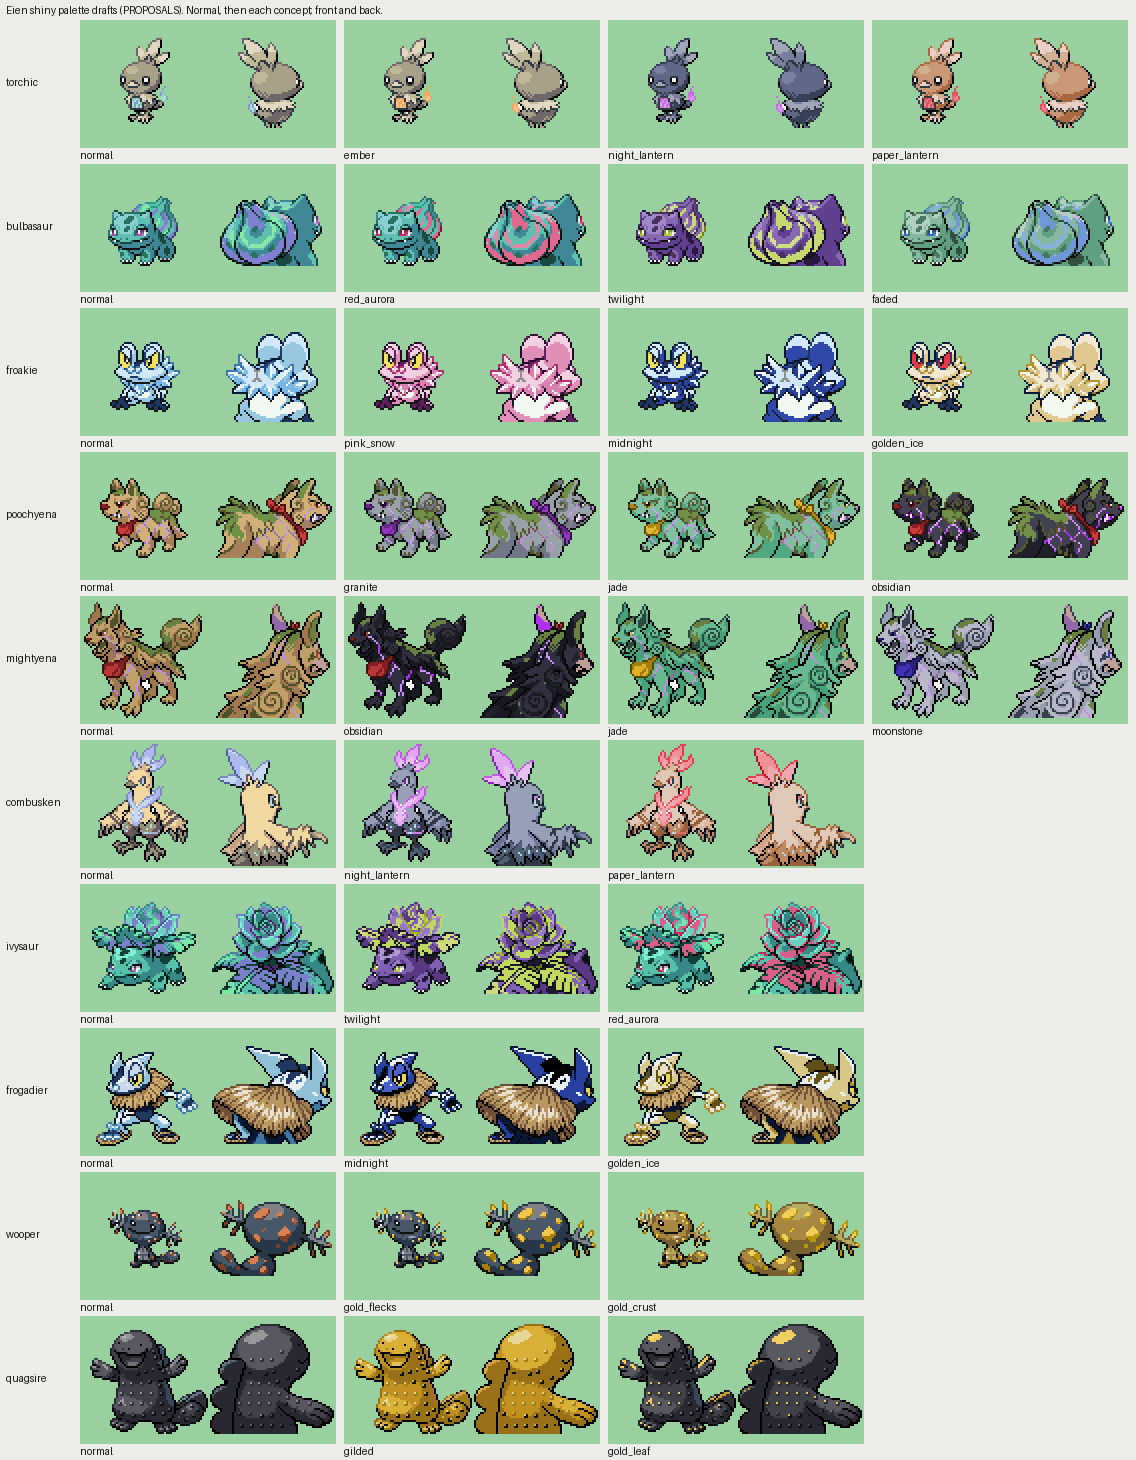
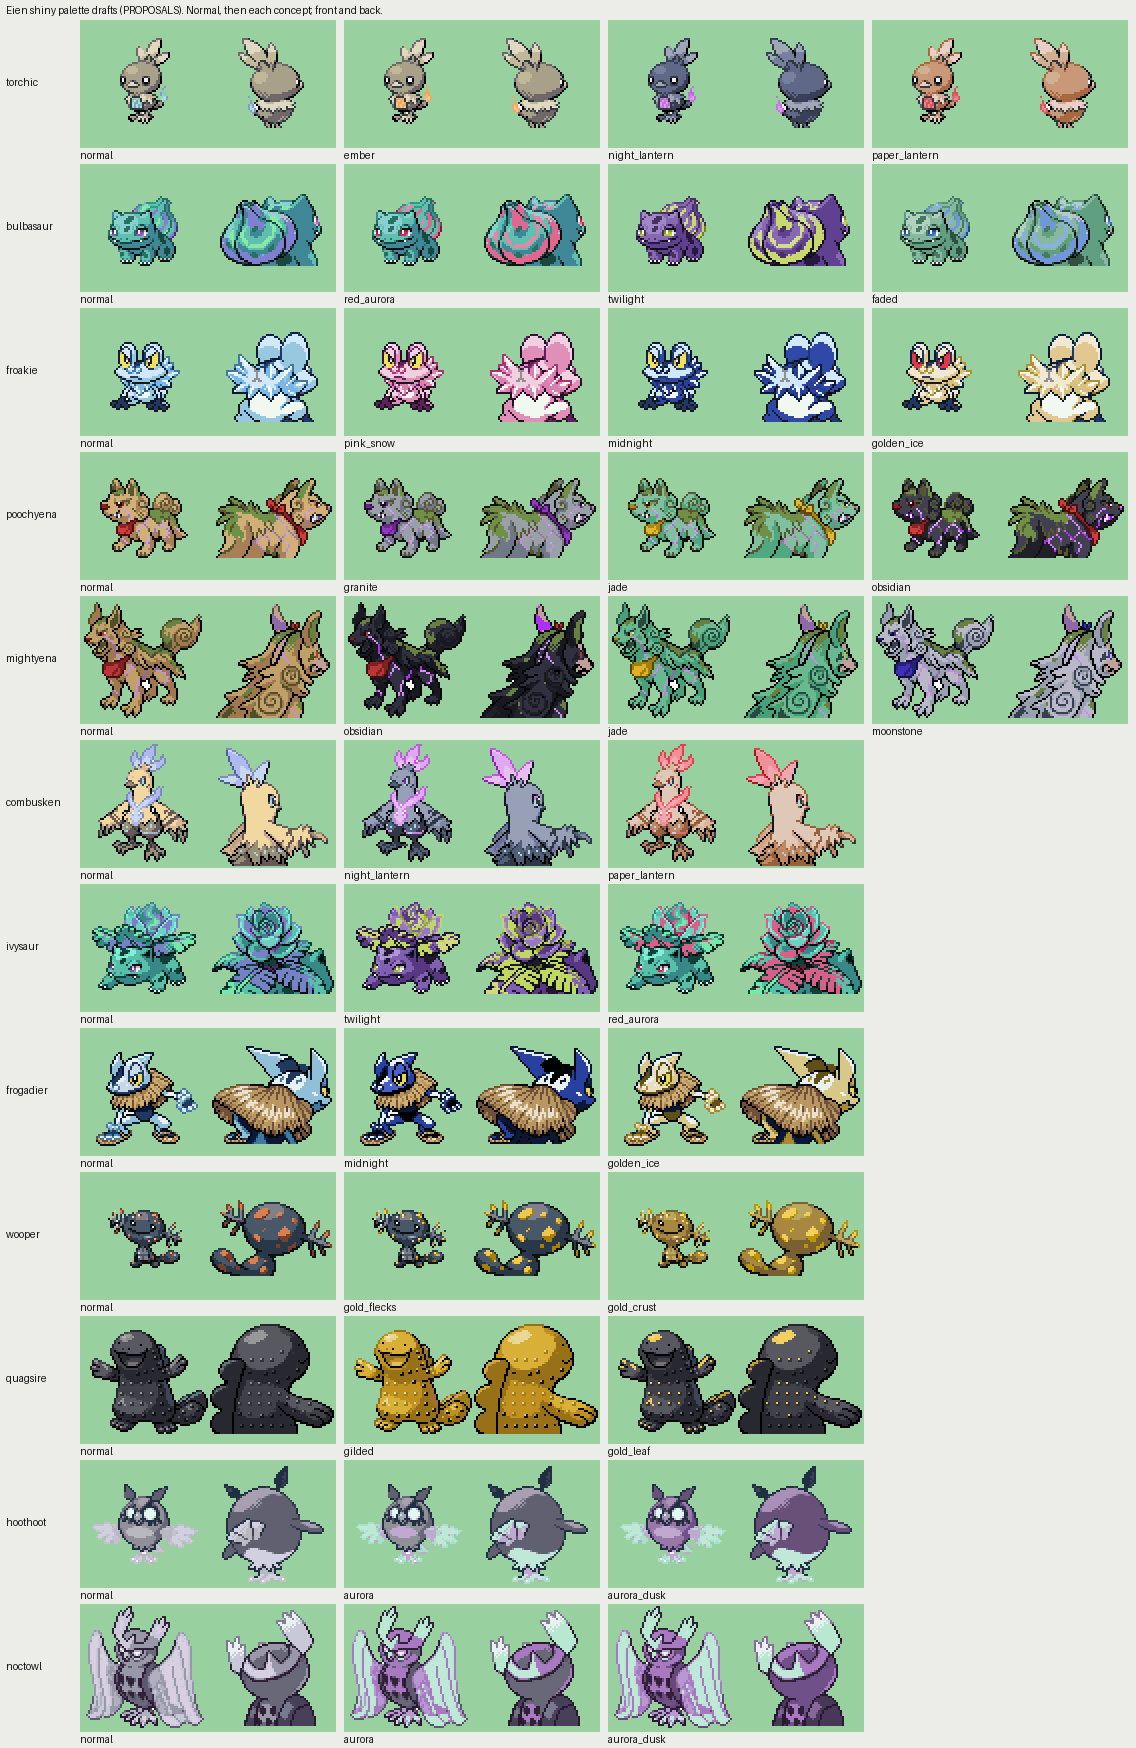
Put Eien Hoothoot and Eien Noctowl's picked sprites in the game
Fronts (both gemini3pro_a, the pale solid mist), idle frames, backs, icons in
vanilla icon palette 2 and aurora_dusk shinies, from AI drafts. Their sizes no
longer switch with P_GBA_STYLE_SPECIES_GFX; Noctowl's veils need a 64x64
front. In-game shots and notes in design/art/eien_hoothoot_drafts.md;
credited in asset-credits.md.

Claude-Session: https://claude.ai/code/session_01KEfQ3687BBFMv8bczkVuAH

diff --git a/src/data/pokemon/species_info/eien_families.h b/src/data/pokemon/species_info/eien_families.h
@@ -787,10 +787,10 @@
         .pokemonOffset = -2,
         .trainerScale = 256,
         .trainerOffset = 0,
-        // The vanilla sprites in mist palettes until its own art is picked (variants.md)
-        .frontPic = gMonFrontPic_Hoothoot,
-        .frontPicSize = MON_COORDS_SIZE(40, 40),
-        .frontPicYOffset = P_GBA_STYLE_SPECIES_GFX ? 13 : 12,
+        // Its own sprites, framed like the vanilla (non-GBA-style) ones; the mist wings are wider
+        .frontPic = sMonFrontPic_HoothootEien,
+        .frontPicSize = MON_COORDS_SIZE(56, 40),
+        .frontPicYOffset = 12,
         .frontAnimFrames = ANIM_FRAMES(
             ANIMCMD_FRAME(1, 7),
             ANIMCMD_FRAME(0, 7),
@@ -806,13 +806,13 @@
             ANIMCMD_FRAME(0, 7),
         ),
         .frontAnimId = ANIM_V_SLIDE_SLOW,
-        .backPic = gMonBackPic_Hoothoot,
-        .backPicSize = P_GBA_STYLE_SPECIES_GFX ? MON_COORDS_SIZE(48, 48) : MON_COORDS_SIZE(56, 64),
-        .backPicYOffset = P_GBA_STYLE_SPECIES_GFX ? 8 : 4,
+        .backPic = sMonBackPic_HoothootEien,
+        .backPicSize = MON_COORDS_SIZE(56, 64),
+        .backPicYOffset = 4,
         .backAnimId = BACK_ANIM_CONVEX_DOUBLE_ARC,
         .palette = sMonPalette_HoothootEien,
         .shinyPalette = sMonShinyPalette_HoothootEien,
-        .iconSprite = gMonIcon_Hoothoot,
+        .iconSprite = sMonIcon_HoothootEien,
         .iconPalIndex = 2,
         .pokemonJumpType = PKMN_JUMP_TYPE_NONE,
         SHADOW(0, 2, SHADOW_SIZE_S)
@@ -877,22 +877,22 @@
         .pokemonOffset = 3,
         .trainerScale = 256,
         .trainerOffset = 0,
-        // The vanilla sprites in mist palettes until its own art is picked (variants.md)
-        .frontPic = gMonFrontPic_Noctowl,
-        .frontPicSize = MON_COORDS_SIZE(40, 64),
-        .frontPicYOffset = P_GBA_STYLE_SPECIES_GFX ? 3 : 2,
+        // Its own sprites; the veils fill the frame's width (vanilla's front is 40 wide)
+        .frontPic = sMonFrontPic_NoctowlEien,
+        .frontPicSize = MON_COORDS_SIZE(64, 64),
+        .frontPicYOffset = 2,
         .frontAnimFrames = ANIM_FRAMES(
             ANIMCMD_FRAME(1, 40),
             ANIMCMD_FRAME(0, 20),
         ),
         .frontAnimId = ANIM_V_STRETCH,
-        .backPic = gMonBackPic_Noctowl,
+        .backPic = sMonBackPic_NoctowlEien,
         .backPicSize = MON_COORDS_SIZE(48, 64),
         .backPicYOffset = 3,
         .backAnimId = BACK_ANIM_TRIANGLE_DOWN,
         .palette = sMonPalette_NoctowlEien,
         .shinyPalette = sMonShinyPalette_NoctowlEien,
-        .iconSprite = gMonIcon_Noctowl,
+        .iconSprite = sMonIcon_NoctowlEien,
         .iconPalIndex = 2,
         .pokemonJumpType = PKMN_JUMP_TYPE_NONE,
         SHADOW(-2, 10, SHADOW_SIZE_S)

diff --git a/src/data/pokemon/species_info/eien_forms_data.h b/src/data/pokemon/species_info/eien_forms_data.h
@@ -63,8 +63,14 @@ static const u16 sMonShinyPalette_WooperEien[] = INCGFX_U16("graphics/pokemon/ei
 static const u16 sMonPalette_QuagsireEien[] = INCGFX_U16("graphics/pokemon/eien/quagsire/normal.pal", ".gbapal");
 static const u16 sMonShinyPalette_QuagsireEien[] = INCGFX_U16("graphics/pokemon/eien/quagsire/shiny.pal", ".gbapal");
 
-// Eien Hoothoot and Noctowl: the vanilla sprites in faded mist palettes (placeholder_palettes.py)
-// until their AI drafts are picked.
+// Eien Hoothoot and Noctowl: the picked AI fronts, idle frames, backs and aurora shinies
+// (convert_art.py, design/art/eien_hoothoot_drafts.md); icons in vanilla icon palette 2.
+static const u32 sMonFrontPic_HoothootEien[] = INCGFX_U32("graphics/pokemon/eien/hoothoot/anim_front.png", ".4bpp.smol");
+static const u32 sMonBackPic_HoothootEien[] = INCGFX_U32("graphics/pokemon/eien/hoothoot/back.png", ".4bpp.smol");
+static const u8 sMonIcon_HoothootEien[] = INCGFX_U8("graphics/pokemon/eien/hoothoot/icon.png", ".4bpp");
+static const u32 sMonFrontPic_NoctowlEien[] = INCGFX_U32("graphics/pokemon/eien/noctowl/anim_front.png", ".4bpp.smol");
+static const u32 sMonBackPic_NoctowlEien[] = INCGFX_U32("graphics/pokemon/eien/noctowl/back.png", ".4bpp.smol");
+static const u8 sMonIcon_NoctowlEien[] = INCGFX_U8("graphics/pokemon/eien/noctowl/icon.png", ".4bpp");
 static const u16 sMonPalette_HoothootEien[] = INCGFX_U16("graphics/pokemon/eien/hoothoot/normal.pal", ".gbapal");
 static const u16 sMonShinyPalette_HoothootEien[] = INCGFX_U16("graphics/pokemon/eien/hoothoot/shiny.pal", ".gbapal");
 static const u16 sMonPalette_NoctowlEien[] = INCGFX_U16("graphics/pokemon/eien/noctowl/normal.pal", ".gbapal");

diff --git a/tools/eien_species/convert_art.py b/tools/eien_species/convert_art.py
@@ -64,6 +64,8 @@ BACK_PICKS = {
     "frogadier": "back_gemini3pro_a.png",
     "wooper": "back_gemini3pro_b.png",
     "quagsire": "back_gemini3pro_b.png",
+    "hoothoot": "back_gemini3pro_a.png",
+    "noctowl": "back_gemini3pro_a.png",
 }
 # species: chosen shiny palette in design/art/eien_<species>/shiny_drafts/ (shiny_drafts.py).
 # Species without one get an automatic hue shift.
@@ -78,6 +80,8 @@ SHINY_PICKS = {
     "frogadier": "midnight.pal",
     "wooper": "gold_crust.pal",
     "quagsire": "gilded.pal",
+    "hoothoot": "aurora_dusk.pal",
+    "noctowl": "aurora_dusk.pal",
 }
 # species: chosen front frame 2 (idle) in design/art/eien_<species>/frame2_drafts/, indexed with
 # the form's palette (design/art/eien_starters_drafts.md, "Frame 2 (idle)"). Species without
@@ -93,6 +97,8 @@ FRAME2_PICKS = {
     "frogadier": "frame2_gemini3pro_a.png",
     "wooper": "frame2_gemini31flash_a.png",
     "quagsire": "frame2_gemini3pro_a.png",
+    "hoothoot": "frame2_gemini3pro_b.png",
+    "noctowl": "frame2_gemini31flash_b.png",
 }
 SHINY_HUE = 0.5
 

diff --git a/tools/eien_species/make_icons.py b/tools/eien_species/make_icons.py
@@ -49,6 +49,9 @@ ICON_READY = {
     # copper); Quagsire's frame 2 is frame 1 moved down 1px
     "wooper": ("icon_gemini3pro_b_pal3.png", 3),
     "quagsire": ("icon_gemini31flash_b_pal3.png", 3),
+    # indexed with vanilla icon palette 2 (greys and violet); frame 2 is frame 1 moved down 1px
+    "hoothoot": ("icon_gemini31flash_a_pal2.png", 2),
+    "noctowl": ("icon_gemini3pro_a_pal2.png", 2),
 }
 
 

diff --git a/design/art/eien_hoothoot_drafts.md b/design/art/eien_hoothoot_drafts.md
@@ -2,7 +2,9 @@
 
 Front drafts for the two Ghost/Flying forms in `variants.md` (a half-faded owl whose wings and
 tail fade into mist; a Noctowl whose faded wings hang behind it in long veils, like a shroud).
-Nothing here is picked yet; the game uses the vanilla sprites in placeholder mist palettes.
+**Picked and in the game:** Eien Hoothoot `gemini3pro_a`, Eien Noctowl `gemini3pro_a`, with their
+idle frames, backs, icons and aurora shinies (below). In-game shots: `eien_hoothoot/summary.png`,
+`eien_hoothoot/battle_back.png`, `eien_hoothoot/party_icon.png`, `eien_noctowl/summary.png`.
 
 Contact sheets (vanilla first, then each converted draft, at 2x):
 [`eien_hoothoot_contact_sheet.png`](eien_hoothoot_contact_sheet.png),
@@ -46,3 +48,27 @@ dithered mist (a checker of mist and background), **c** evaporating mist (fading
 - After a pick: frame 2, back, icon and the aurora-mist shiny (green-violet), as for the other
   forms (`stage_drafts.py`, `shiny_drafts.py`, `make_icons.py`), then credit in
   `asset-credits.md`.
+
+## After the pick
+
+- **Fronts:** both converted cleanly (the drafts kept the 64x64 grid). Hoothoot's mist wings
+  make it wider than vanilla (`frontPicSize` 56x40); Noctowl's veils fill the frame
+  (`frontPicSize` 64x64 instead of vanilla's 40x64). Both forms' sizes and offsets no longer
+  switch with `P_GBA_STYLE_SPECIES_GFX`, as for Eien Wooper and Quagsire.
+- **Backs** (`stage_drafts.py back`,
+  [`eien_hoothoot_back_contact_sheet.png`](eien_hoothoot_back_contact_sheet.png)): Hoothoot
+  `gemini3pro_a`, Noctowl `gemini3pro_a`. All four Hoothoot backs came out as side views rather
+  than vanilla's from-behind view (the same weakness the Poochyena test found); `gemini3pro_a` is
+  the clearest. Neither back shows much mist; a hand pass could add it.
+- **Idle frames** ([`eien_hoothoot_frame2_contact_sheet.png`](eien_hoothoot_frame2_contact_sheet.png)):
+  Hoothoot `gemini3pro_b` (mist wings raised, like vanilla's flap), Noctowl `gemini31flash_b`
+  (Noctowl's 3 Pro a call returned no image).
+- **Icons** ([`eien_hoothoot_icon_contact_sheet.png`](eien_hoothoot_icon_contact_sheet.png)):
+  Hoothoot `gemini31flash_a`, Noctowl `gemini3pro_a`, indexed with vanilla icon palette 2 (greys
+  and violet, closer than the Eien palette's warm greys). Frame 2 is frame 1 moved down 1px. Two
+  drafts (Hoothoot 3 Pro a, Noctowl 3 Pro b) drew a box around the icon and were skipped.
+  Noctowl's icon is busy at 32x32; a hand pass could simplify the veils.
+- **Shinies** (`shiny_drafts.py`, in `eien_shiny_contact_sheet.png`): `aurora_dusk` for both
+  (green mist on a violet-grey body) over `aurora` (green mist only), which was too faint on
+  Hoothoot to read as shiny.
+- The overworld (follower) sprites are still vanilla's, like the other Eien forms'.

diff --git a/design/asset-credits.md b/design/asset-credits.md
@@ -27,4 +27,4 @@ license allows use in a free fan game before importing.
 | Female pilgrim's battle sprite (`graphics/trainers/front_pics/eien_pilgrim_f.png`, `TRAINER_PIC_EIEN_PILGRIM_F`) | Trainer front picture | AI draft (Google Gemini 3.1 Flash), using Emerald's Battle Girl (Game Freak) as the style reference and her overworld sprite for the design | - | AI-assisted |
 | Hero battle sprites' hair (`graphics/trainers/front_pics/brendan.png`, `back_pics/brendan.png`) | Player battle sprites | AI draft (Google Gemini 3 Pro) edited onto Game Freak's Brendan sprites, merged by `tools/eien_hero/redraw_hair.py` | - | AI-assisted |
 | Eien Poochyena test sprites (`design/art/eien_poochyena/`) | Sprite workflow test, not in game | AI-generated with Google Gemini (gemini-3-pro-image, gemini-3.1-flash-image) from Game Freak's Poochyena sprite, converted with `tools/sprite_prep` | - | AI-generated; based on an existing Pokémon sprite |
-| Eien species sprites in game (`graphics/pokemon/eien/`: the starters, their middle stages, Eien Poochyena, Mightyena, Wooper and Quagsire) | Pokémon front, back and idle frames, icons | AI drafts (Google Gemini 3 Pro / 3.1 Flash image models) redrawn from Game Freak's sprites of the same species, picked and converted with `tools/eien_species/` (notes in `design/art/eien_*`). Placeholder backs are Game Freak's backs recolored | - | AI-generated; based on existing Pokémon sprites |
+| Eien species sprites in game (`graphics/pokemon/eien/`: the starters, their middle stages, Eien Poochyena, Mightyena, Wooper, Quagsire, Hoothoot and Noctowl) | Pokémon front, back and idle frames, icons | AI drafts (Google Gemini 3 Pro / 3.1 Flash image models) redrawn from Game Freak's sprites of the same species, picked and converted with `tools/eien_species/` (notes in `design/art/eien_*`). Placeholder backs are Game Freak's backs recolored | - | AI-generated; based on existing Pokémon sprites |

diff --git a/design/variants.md b/design/variants.md
@@ -172,11 +172,14 @@ the middle stages don't evolve further yet.
 - **Research:** seen / battled / caught, like Eien Poochyena's: an entry on the professor's
   list (side-quests E2), shown once the hero has gym 1's badge.
 - **Shiny:** aurora mist, green-violet instead of grey, for both stages.
-- **Sprites:** AI drafts through `tools/eien_species/` (`variant_drafts.py`): one round with
-  three mist treatments (pale solid mist; dithered mist, see-through to the background; mist
-  that fades to loose pixels at the tips), picked from the contact sheet. Eien Noctowl's veils
-  hang down behind it into the space below the wings, a shroud inside 64x64. Built in one PR
-  with the data: the art goes in once picked.
+- **Sprites:** picked AI drafts ([art/eien_hoothoot_drafts.md](art/eien_hoothoot_drafts.md)),
+  from one round with three mist treatments: both picks are the pale solid mist (lavender mist
+  wings, no outline, around a solid face with icy glowing eyes; Eien Noctowl's veils hang down
+  both sides to its feet). With idle frames, backs, icons (vanilla icon palette 2) and aurora
+  shinies (green mist on a violet-grey body). `TODO(design)`: both dex entries (drafts in
+  `eien_families.h`) and the research tier lines (drafts in `src/data/eien_journal.h`).
+- **Built:** `SPECIES_HOOTHOOT_EIEN` / `SPECIES_NOCTOWL_EIEN`; tests in `test/eien_journal.c` and
+  `test/battle/eien_research.c`.
   `TODO(design)`: both dex entries (drafted at build time).
 
 Decided in [brainstorm-eien-hoothoot.md](brainstorm-eien-hoothoot.md); the build in

diff --git a/design/whats-left.md b/design/whats-left.md
@@ -55,7 +55,7 @@ Open gaps found while building Shimotsuki:
 - **Progression:** gym leaders 2-8, the level curve past gym 1, badge gates, field moves
   without HMs (`progression.md`).
 - **Region map:** the placeholder Town Map is built (`tools/eien_region_map/`, "EIEN" on screen, fly spots in their real cells). Still to do: AI art; sections for each new town as it's built.
-- **Species:** Eien Wooper and Eien Quagsire are built with their AI sprites (their dex entries and the cave evolution wait); Eien Hoothoot is designed with its build settled (`brainstorm-eien-hoothoot-build.md`), not built; the evolved starters' finals are designed, not built; Trubbish's Fresh Water split is planned (its new Pokémon needs a brainstorm); more Eien variants (5-10 total planned);
+- **Species:** Eien Wooper and Eien Quagsire are built with their AI sprites (their dex entries and the cave evolution wait); Eien Hoothoot and Eien Noctowl are built with their AI sprites (their dex entries and the night-pass evolution wait); the evolved starters' finals are designed, not built; Trubbish's Fresh Water split is planned (its new Pokémon needs a brainstorm); more Eien variants (5-10 total planned);
   Eien Mightyena's dex entry.
 - **Quests:** point thresholds, the letter trigger rule, remaining chains' details
   (`side-quests.md`).
